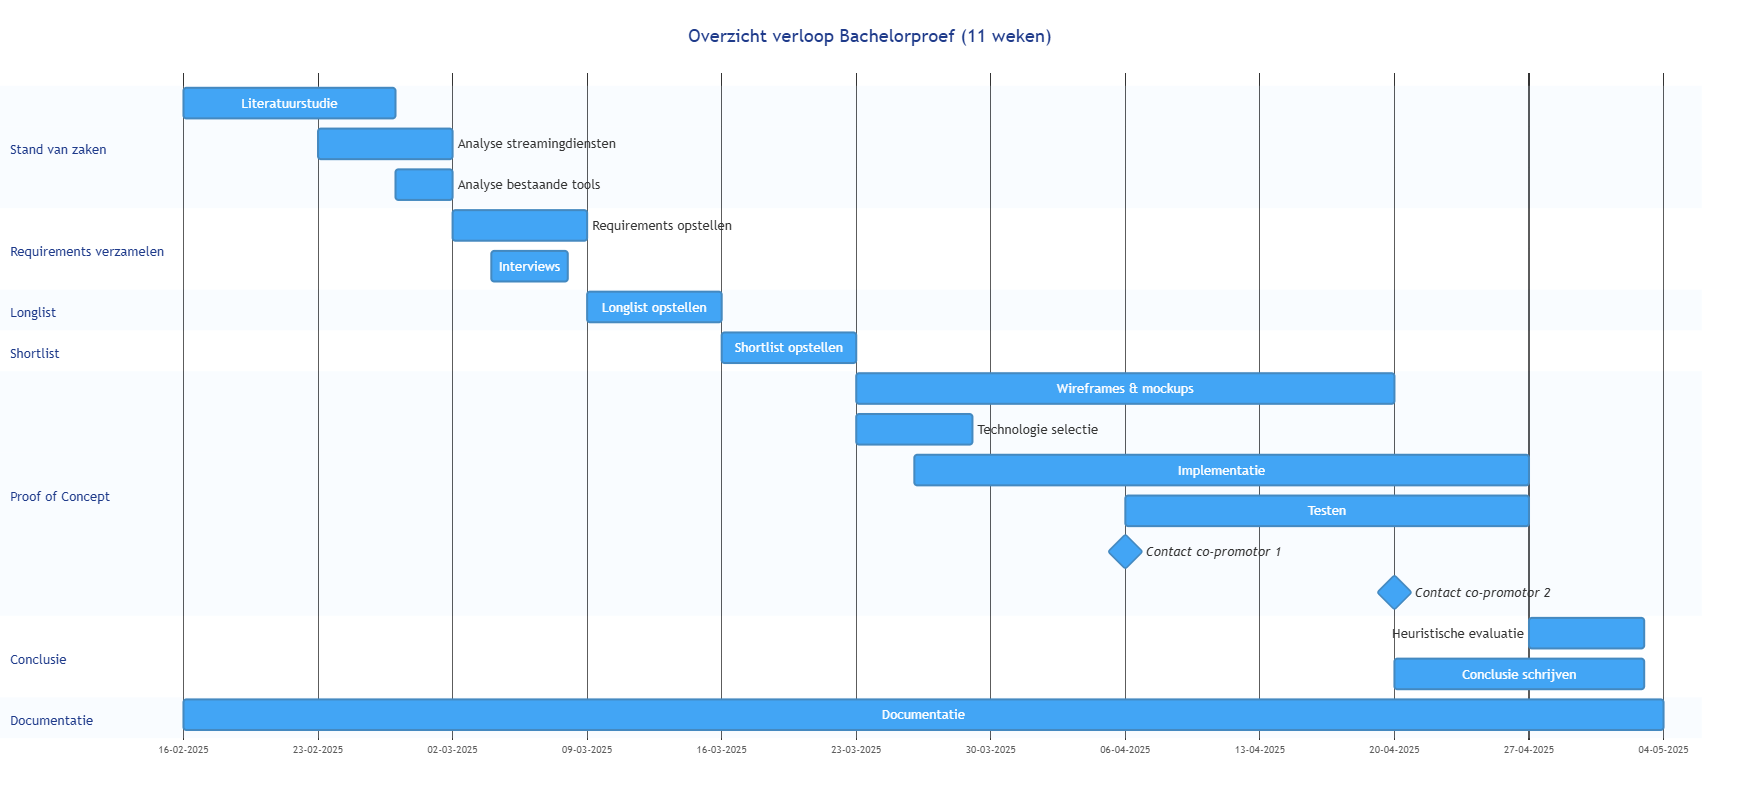
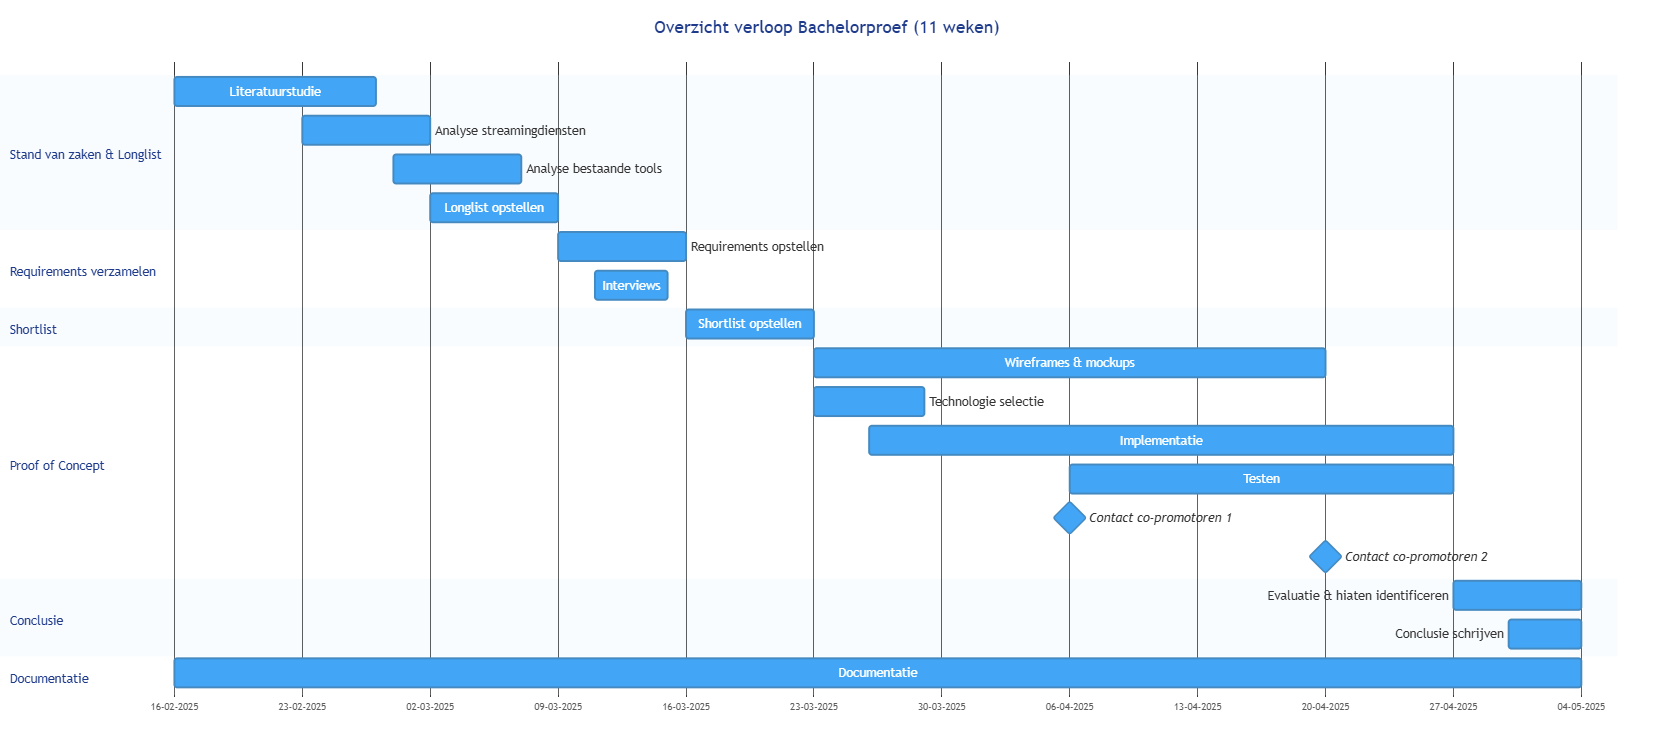
Toepassen feedback deel 2
TO DO: afwerken abstract, inleiding en literatuurstudie

diff --git a/voorstel/voorstel-inhoud.tex b/voorstel/voorstel-inhoud.tex
@@ -3,7 +3,7 @@
 \section{Inleiding}%
 \label{sec:inleiding}
 
-De voorbije jaren wordt er steeds meer gestreamd in België. Populaire streamingdiensten zoals \emph{Netflix}, \emph{Disney+} en \emph{Spotify} zijn haast niet meer weg te denken. Daarnaast springt ook de Vlaamse entertainmentindustrie volop op deze trend. Enkele populaire Vlaamse zenders en productiehuizen kwamen de voorbije jaren met hun eigen platformen. Denk maar aan \emph{Streamz}, \emph{VRT MAX} en \emph{VTM GO}. Door het stijgende aanbod aan streamingdiensten en doordat live televisie in populariteit daalt, sluiten steeds meer Belgen, waaronder Vlamingen, streamingabonnementen af.
+Er wordt steeds meer gestreamd in België \autocite{BNA2025}. Populaire streamingdiensten zoals \emph{Netflix}, \emph{Disney+} en \emph{Spotify} zijn haast niet meer weg te denken. Daarnaast springt ook de Vlaamse entertainmentindustrie volop op deze trend. Enkele populaire Vlaamse zenders en productiehuizen kwamen de voorbije jaren met hun eigen platformen. Denk maar aan \emph{Streamz}, \emph{VRT MAX} en \emph{VTM GO}. Door de groei van streamingdiensten en doordat live televisie in populariteit daalt \autocite{Digimeter2024}, maken steeds meer Belgen, waaronder Vlamingen, gebruik van al dan niet betalende streamingdiensten \autocite{BNA2025}.
 
 \vspace{1em}
 
@@ -34,7 +34,7 @@ Aanvullend werden enkele deelvragen geformuleerd die ondersteuning bieden bij he
 \noindent
 \textbf{Deelvragen probleemdomein:}
 \begin{enumerate}
-    \item Welke dark patterns komen het meest voor op websites en apps van streamingdiensten die door jongvolwassenen tussen 21 en 25 gebruikt worden?
+    \item Welke dark patterns komen het meest voor op websites en apps van streamingdiensten die door jongvolwassenen tussen 18 en 34 gebruikt worden?
     \item In welke mate zijn jongvolwassenen zich bewust van de aanwezigheid van dark patterns bij het gebruik van streamingdiensten?
     \item Welke verbanden bestaan er tussen de aanwezigheid van specifieke dark patterns en de businessdoelstellingen van streaming-\newline diensten?
     \item Op welk platform (website of mobiele app) komen dark patterns het vaakst voor?
@@ -48,6 +48,7 @@ Aanvullend werden enkele deelvragen geformuleerd die ondersteuning bieden bij he
     \item Welke bestaande tools die gebruikers waarschuwen voor dark patterns bestaan er al, en hoe effectief zijn deze in het verhogen van bewustzijn?
     \item Op welke manier kunnen jongvolwassenen het best ondersteund worden bij het herkennen van dark patterns zonder dat hun gebruikerservaring negatief beïnvloed wordt?
     \item Welke digitale of interactieve oplossing kan het meest bijdragen aan het verhogen van bewustzijn, en welke (niet-)functionele vereisten zijn hiervoor essentieel?
+    \item In welke mate voldoet de uitgewerkte digitale oplossing aan de opgestelde requirements en welke verbeterpunten kunnen worden geïdentificeerd?
 \end{enumerate}
 
 \vspace{1em}
@@ -127,22 +128,28 @@ In het algemeen werd er in het kader van dark patterns voornamelijk onderzocht w
 \section{Methodologie}%
 \label{sec:methodologie}
 
-Zoals in het begin van dit voorstel werd aangehaald, richt dit onderzoek zich op het zoeken naar een geschikte tool die jongvolwassen gebruikers in staat stelt om dark patterns op streamingdiensten te herkennen, en zo bewustwording rond dit onderwerp te creëren. Om de onderzoeksvraag te beantwoorden, wordt een weloverwogen plan gevolgd dat bestaat uit \textbf{zes verschillende fasen}. In eerste instantie wordt de huidige stand van zaken onderzocht aan de hand van een literatuurstudie. Nadien worden hieruit de requirements waaraan de tool moet voldoen opgesteld. Vervolgens zal een longlist gemaakt worden van alle mogelijke oplossingen. Deze zal verder vernauwd worden tot een shortlist die de meest geschikte tools bevat voor deze casus die eveneens rekening houdt met de doelgroep. Hieruit zal de meest geschikte aanpak gekozen en uitgewerkt worden als Proof of Concept. Tot slot zal uit dit onderzoek een conclusie geformuleerd worden. Naast deze gedefinieerde fasen wordt er tijdens het volledige verloop van het onderzoek continu documentatie bijgehouden. Iedere fase is zorgvuldig gepland om een optimaal verloop van de bachelorproef te garanderen. Een overzicht van het verloop van het onderzoek wordt weergegeven in Figuur~\ref{fig:gantt}. De onderzoeksperiode spreidt zich over \textbf{11 weken}, gevolgd door 3 weken waarin feedback kan worden verwerkt en de eindpresentatie kan worden voorbereid. Binnen de onderzoeksperiode zal er \textbf{wekelijks één tot twee dagen} gewerkt worden aan de bachelorproef: op de bachelorproefdag en, indien mogelijk, één dag in het weekend.
+Zoals in het begin van dit voorstel werd aangehaald, richt dit onderzoek zich op het zoeken naar een geschikte tool die jongvolwassen gebruikers in staat stelt om dark patterns op streamingdiensten te herkennen, en zo bewustwording rond dit onderwerp te creëren. Om de onderzoeksvraag te beantwoorden, wordt een weloverwogen plan gevolgd dat bestaat uit \textbf{vijf verschillende fasen}. In eerste instantie wordt de huidige stand van zaken onderzocht aan de hand van een literatuurstudie en zal een longlist gemaakt worden van alle mogelijke oplossingen. Nadien worden uit het literatuuronderzoek de requirements waaraan de tool moet voldoen opgesteld. Aan de hand van deze vereisten zal de longlist uit fase 1 verder vernauwd worden tot een shortlist die de meest geschikte tools bevat voor deze casus. Hieruit zal de meest beloftevolle aanpak gekozen en uitgewerkt worden als een Proof of Concept door een bestaande open‑source tool verder uit te werken en te verbeteren voor deze specifieke use case. Tot slot zal uit dit onderzoek een conclusie geformuleerd worden. Naast deze gedefinieerde fasen wordt er tijdens het volledige verloop van het onderzoek continu documentatie bijgehouden. Iedere fase is zorgvuldig gepland om een optimaal verloop van de bachelorproef te garanderen. Een overzicht van het verloop van het onderzoek wordt weergegeven in Figuur~\ref{fig:gantt}. De onderzoeksperiode spreidt zich over \textbf{11 weken}, gevolgd door 3 weken waarin feedback kan worden verwerkt en de eindpresentatie kan worden voorbereid. Binnen de onderzoeksperiode zal er \textbf{wekelijks één tot twee dagen} gewerkt worden aan de bachelorproef: op de bachelorproefdag en, indien mogelijk, één dag in het weekend.
 
 \vspace{1em}
 
-\subsection{Fase 1: Stand van zaken}
+\subsection{Fase 1: Stand van zaken \& Longlist}
 \label{subsec:stand-van-zaken}
 
 \begin{tabular}{ll}
-    \hspace{0.3em} \textbf{Periode:} & 16/02 – 01/03 (Week 1 - 2)
+    \hspace{0.3em} \textbf{Periode:} & 16/02 – 08/03 (Week 1 - 3)
 \end{tabular}
 
 \vspace{1em}
 
 Tijdens de eerste twee weken van het onderzoek wordt het onderzoeksdomein uitvoerig verkend om op die manier een goed theoretisch kader op te bouwen. Via literatuuronderzoek wordt onderzocht wat dark patterns zijn, welke er bestaan, welke negatieve gevolgen deze kunnen hebben en hoe bewust mensen zijn van de patronen en hun gevolgen. Verder wordt nagegaan waar deze patronen het vaakst voorkomen (websites en apps) en of er verschillen zijn per platform. Daarnaast wordt ook de huidige wet- en regelgeving en de mogelijk link tussen de businessdoelstellingen van streamingdiensten en het gebruik van dark patterns onder de loep genomen. Aanvullend aan dit literatuuronderzoek, wordt in kaart gebracht welke streamingdiensten het populairst zijn in België en welke dark patterns zij toepassen, onderverdeeld per platform. Tot slot worden bestaande tools geanalyseerd om hun sterktes en beperkingen te identificeren. Het literatuuronderzoek zal gedaan worden gebruikmakend van \emph{Google Scholar} en wetenschappelijke databanken zoals \emph{ACM digital library}, \emph{Springer Online Journals} en \emph{JSTOR}.
 
-Het doel van deze fase is het verder verwerven van kennis omtrent het probleemdomein, zodat in de volgende fase de requirements op een onderbouwde manier kunnen worden opgesteld. Dit resulteert zich in het uitwerken van een overzicht van gebruikersproblemen rond dark patterns op streamingdiensten, een lijst van populaire streamingdiensten en de patronen die ze bevatten, en een analyse van bestaande tools met hun sterke en zwakke punten.
+\vspace{1em}
+
+Op basis van dit literatuuronderzoek wordt een \textbf{longlist} opgesteld van mogelijke digitale oplossingen die gebruikers kunnen helpen om dark patterns op streamingdiensten te herkennen. Ieder alternatief wordt gedocumenteerd met zijn voor- en nadelen. Het doel is om een zo compleet mogelijk overzicht te creëren van mogelijke oplossingen, dat later gebruikt zal worden voor het opstellen van de shortlist.
+
+\vspace{1em}
+
+Het doel van deze fase is het verder verwerven van kennis omtrent het probleemdomein, zodat in de volgende fase de requirements op een onderbouwde manier kunnen worden opgesteld. Dit resulteert zich in het uitwerken van een overzicht van gebruikersproblemen rond dark patterns op streamingdiensten, een lijst van populaire streamingdiensten en de patronen die ze bevatten, en een analyse van bestaande tools met hun sterke en zwakke punten. Tot slot moet in deze fase een longlist opgesteld zijn van alle mogelijke digitale oplossingen die geschikt zouden kunnen zijn om in een verder stadium uit te werken.
 
 \vspace{1em}
 
@@ -150,31 +157,16 @@ Het doel van deze fase is het verder verwerven van kennis omtrent het probleemdo
 \label{subsec:requirements-verzamelen}
 
 \begin{tabular}{ll}
-    \hspace{0.3em} \textbf{Periode:} & 02/03 – 08/03 (Week 3)
-\end{tabular}
-
-\vspace{1em}
-
-In fase~2 ligt de focus op het verzamelen van alle vereisten waaraan de nieuwe tool moet voldoen. Op basis van de resultaten uit het literatuuronderzoek worden de requirements opgesteld. Er wordt onder andere rekening gehouden met welke dark patterns het belangrijkste zijn, waar de tool moet ingezet worden, welke aspecten overgenomen kunnen worden van andere tools en welke toevoegingen nodig zijn voor een betere digitale oplossing. Aanvullend worden de voorlopige requirements afgetoetst en aangevuld via interviews met experts, waaronder een UI/UX-designer en een front-end developer. Deze fase zal worden afgerond door het opstellen van een volledige en geprioriteerde lijst van criteria die het \emph{minimum viable product (MVP)} definiëren. Het concrete resultaat bestaat uit een lijst van functionele en niet-functionele requirements, geordend volgens hun belang. Voor de ordening zal de \emph{MoSCoW}-methode gebruikt worden.
-
-
-\vspace{1em}
-
-\subsection{Fase 3: Longlist}
-\label{subsec:longlist}
-
-\begin{tabular}{ll}
     \hspace{0.3em} \textbf{Periode:} & 09/03 – 15/03 (Week 4)
 \end{tabular}
 
 \vspace{1em}
 
-Na het opstellen van de requirements zal er gezocht worden naar een zo groot mogelijk aantal digitale oplossingen die gebruikers kunnen helpen om dark patterns op streamingdiensten te herkennen. Door middel van aanvullend literatuuronderzoek, gebruikmakend van de voorgaande vermelde databanken, worden alle mogelijke oplossingen overwogen en opgelijst. Ieder alternatief zal worden afgetoetst aan de requirementslijst die werd opgesteld in fase~2 als ook worden de voor- en nadelen genoteerd. Op deze manier wordt er zekerheid ingebouwd dat er geen alternatief over het hoofd gezien wordt. Op het einde van fase~3 moet een longlist opgesteld zijn van alle mogelijke digitale oplossingen die geschikt zouden kunnen zijn om in een verder stadium verder uit te werken. Deze longlist zal dienen voor het opstellen van de shortlist in de volgende fase.
-
+In fase~2 ligt de focus op het verzamelen van alle vereisten waaraan de nieuwe tool moet voldoen. Op basis van de resultaten uit het literatuuronderzoek worden de requirements opgesteld. Er wordt onder andere rekening gehouden met welke dark patterns het belangrijkste zijn, waar de tool moet ingezet worden, welke aspecten overgenomen kunnen worden van andere tools en welke toevoegingen nodig zijn voor een betere digitale oplossing. Aanvullend worden de voorlopige requirements afgetoetst en aangevuld via interviews met een UI/UX-designer en een front-end developer. Deze fase zal worden afgerond door het opstellen van een volledige en geprioriteerde lijst van criteria die het \emph{minimum viable product (MVP)} definiëren. Het concrete resultaat bestaat uit een lijst van functionele en niet-functionele requirements, geordend volgens hun belang. Voor de ordening zal de \emph{MoSCoW}-methode gebruikt worden.
 
 \vspace{1em}
 
-\subsection{Fase 4: Shortlist}
+\subsection{Fase 3: Shortlist}
 \label{subsec:shortlist}
 
 \begin{tabular}{ll}
@@ -187,7 +179,7 @@ Vooraleer een Proof of Concept uitgewerkt kan worden, wordt er gekeken welke opl
 
 \vspace{1em}
 
-\subsection{Fase 5: Proof of Concept}
+\subsection{Fase 4: Proof of Concept}
 \label{subsec:proof-of-concept}
 
 \begin{tabular}{ll}
@@ -196,15 +188,20 @@ Vooraleer een Proof of Concept uitgewerkt kan worden, wordt er gekeken welke opl
 
 \vspace{1em}
 
-Fase~5, de fase die het meeste tijd in beslag zal nemen, omvat de uitwerking van een Proof of Concept (PoC). De geselecteerde oplossing uit fase~4 wordt in deze fase uitgewerkt tot een eerste Minimum Viable Product (MVP). In eerste instantie zullen er wireframes en mockups uitgewerkt worden in \emph{AdobeXD} om de algemene flow van de tool te bepalen. Nadien zullen in overleg met de co-promotor de meest geschikte technologieën (zoals \emph{React}, \emph{Node.js}, \emph{Python}, \ldots) gekozen worden. Daarna start de implementatie van de tool. Tijdens de ontwikkeling wordt er iteratief en agile gewerkt, waarbij elke iteratie het resultaat zal worden afgetoetst bij de co-promotor. Daarnaast zullen er testen geschreven worden die de goede werking van de tool controleren.
+Fase~4, de fase die het meeste tijd in beslag zal nemen, omvat de uitwerking van een Proof of Concept (PoC). De geselecteerde oplossing uit fase~4 wordt in deze fase uitgewerkt tot een eerste Minimum Viable Product (MVP). Aangezien er reeds bestaande open-source tools beschikbaar zijn, zal één van deze tools verder aangepast en uitgebreid worden voor de specifieke use case van dit onderzoek. 
 
 \vspace{1em}
 
-Op het einde van de fase is er een werkend prototype die de belangrijkste functionaliteiten van de tool bevat, aangevuld met een korte documentatie over de werking en functionaliteiten. Eveneens zal gevalideerd worden of de uitgewerkte tool al dan niet een oplossing biedt voor het gestelde probleem. Dit zal gedaan worden aan de hand van een digitale test bij enkele testgebruikers die tot de doelgroep behoren. Zij zullen een aantal taken uitvoeren op een streamingplatform die gebruikmaakt van dark patterns, zowel zonder als met de tool. Uit deze test wordt afgeleid in welke mate de proefpersonen de patronen herkennen, hoe snel zij de taken kunnen voltooien en hoeveel gebruikersacties er nodig zijn om de taken af te ronden. De resultaten hiervan zullen bepalen of de PoC een meerwaarde biedt.
+In eerste instantie zullen er wireframes en mockups uitgewerkt worden in \emph{AdobeXD} om de algemene flow van de tool te bepalen. Nadien zullen in overleg met de co-promotoren de meest geschikte technologieën (zoals \emph{React}, \emph{Node.js}, \emph{Python}, \ldots) gekozen worden. Daarna start de implementatie van de tool. Tijdens de ontwikkeling wordt er iteratief en agile gewerkt, waarbij het resultaat van elke iteratie zal worden afgetoetst bij de co-promotoren. Daarnaast zullen er testen geschreven worden die de goede werking van de tool waarborgen.
 
 \vspace{1em}
 
-\subsection{Fase 6: Conclusie}
+Op het einde van de fase is er een werkend prototype die de belangrijkste functionaliteiten van de tool bevat, aangevuld met een korte documentatie over de werking en functionaliteiten. Eveneens zal gevalideerd worden of de uitgewerkte tool al dan niet een oplossing biedt voor het gestelde probleem.
+Dit zal gedaan worden aan de hand van een digitale test bij enkele testgebruikers die tot de doelgroep behoren. Zij zullen een aantal taken uitvoeren op een streamingplatform dat gebruikmaakt van dark patterns, zowel zonder als met de tool. Uit deze test wordt een eerste indicatie afgeleid van in welke mate de proefpersonen de patronen herkennen en hoe snel zij deze waarnemen. De resultaten hiervan geven een eerste indicatie in de mogelijke meerwaarde van de PoC, zonder ervan uit te gaan dat dit geldt voor de hele doelgroep.
+
+\vspace{1em}
+
+\subsection{Fase 5: Conclusie}
 \label{subsec:conclusie}
 
 \begin{tabular}{ll}
@@ -213,18 +210,19 @@ Op het einde van de fase is er een werkend prototype die de belangrijkste functi
 
 \vspace{1em}
 
-De laatste fase omvat het trekken van een conclusie over de werking van de uitgewerkte tool. Eveneens zal een antwoord geformuleerd worden op de onderzoeksvraag en zullen aanbevelingen opgesteld worden voor verder onderzoek. Tot slot worden de overblijvende hiaten in de tool geïdentificeerd. Hiervoor wordt een heuristische evaluatie uitgevoerd op basis van de requirements uit fase~2 en de UX-principes van Nielsen. De evaluatie wordt zowel door de onderzoeker als door de co-promotor uitgevoerd om objectiviteit te waarborgen. De bevindingen uit deze evaluatie worden gedocumenteerd en samengevat.
+De laatste fase omvat het trekken van een conclusie over de werking van de uitgewerkte tool en het identificeren van verbeterpunten en overblijvende hiaten. Dit gebeurt door de gerealiseerde functionaliteiten te vergelijken met de vereisten die in fase~2 werden opgesteld. Daarnaast worden observaties uit de gebruikerstesten meegenomen om hiaten te identificeren en mogelijke verbeterpunten te formuleren.
 
 \vspace{1em}
+
 
 %---------- Verwachte resultaten ----------------------------------------------
 \section{Verwacht resultaat}%
 \label{sec:verwachte_resultaten}
 
-Het verwachte resultaat van dit onderzoek is een digitale tool die Vlamingen tussen 21 en 25 jaar helpt bij het opmerken van dark patterns op streamingdiensten zodat ze veiliger en bewuster met deze platformen omgaan. De tool zal hen ondersteunen bij het herkennen van misleidende technieken en zal de gebruikers informeren over de intentie en gevaren ervan. Deze verwachting baseert zich op bevindingen uit de literatuurstudie, namelijk dat gebruikers regelmatig moeite hebben bij het herkennen van dark patterns \autocite{OECD2022} en dat ze niet bewust zijn van de gevaren ervan \autocite{BongardBlanchy2021}. Daarnaast wordt verwacht dat de tool geen AI zal gebruiken aangezien uit de literatuurstudie gebleken is dat bestaande detectietools gebruikmakend van AI een beperkte dekking hebben \autocite{Nie2024} en dus onmogelijk alle patronen kunnen herkennen en ervoor waarschuwen. Eveneens wordt, naast de uitgewerkte tool, aangenomen dat het onderzoek inzichten zal geven in op welke manier gebruikers het best geïnformeerd en gewaarschuwd kunnen worden. 
+Het verwachte resultaat van dit onderzoek is een digitale tool die Vlamingen tussen 18 en 34 jaar helpt bij het opmerken van dark patterns op streamingdiensten zodat ze deze sneller herkennen. De tool zal hen ondersteunen bij het opmerken van misleidende technieken en zal de gebruikers informeren over de intentie en gevaren ervan. Deze verwachting baseert zich op bevindingen uit de literatuurstudie, namelijk dat gebruikers regelmatig moeite hebben bij het herkennen van dark patterns \autocite{OECD2022} en dat ze niet bewust zijn van de gevaren ervan \autocite{BongardBlanchy2021}. Daarnaast wordt verwacht dat de tool geen AI zal gebruiken aangezien uit de literatuurstudie gebleken is dat bestaande detectietools gebruikmakend van AI een beperkte dekking hebben \autocite{Nie2024} en dus onmogelijk alle patronen kunnen herkennen en ervoor waarschuwen. Eveneens wordt, naast de uitgewerkte tool, aangenomen dat het onderzoek inzichten zal geven in op welke manier gebruikers het best geïnformeerd en gewaarschuwd kunnen worden. 
 
 \vspace{1em}
 
-De verwachte meerwaarde van dit onderzoek voor de doelgroep ligt in het verhogen van hun bewustzijn over dark patterns en het vergroten van hun gevoel van controle bij het gebruik van streamingplatformen. De tool helpt bij het maken van bewustere keuzes doordat gebruikers beter begrijpen hoe interfaces hen beïnvloeden. Verder biedt dit onderzoek waardevolle inzichten voor de wereld van UI/UX en softwareontwikkeling, doordat het kan dienen als voorbeeld voor het ontwerpen van soortgelijke tools in andere domeinen waar dark patterns voorkomen, zoals webshops of reiswebsites.
+De verwachte meerwaarde van dit onderzoek voor de doelgroep ligt in het verhogen van hun bewustzijn over dark patterns en het vergroten van hun gevoel van controle bij het gebruik van streamingplatformen. De tool ondersteunt gebruikers bij het maken van bewustere keuzes door hen te laten zien hoe interfaces hen kunnen beïnvloeden. Verder biedt dit onderzoek waardevolle inzichten voor de wereld van UI/UX en softwareontwikkeling, doordat het kan dienen als voorbeeld voor het ontwerpen van soortgelijke tools in andere domeinen waar dark patterns voorkomen, zoals webshops of reiswebsites.
 
 \vspace{1em}

diff --git a/voorstel/EmanuelAlex-BPvoorstel.tex b/voorstel/EmanuelAlex-BPvoorstel.tex
@@ -26,8 +26,7 @@
 \email{alex.emanuel@student.hogent.be}
 
 % TODO: Geef de co-promotor op
-\supervisor[Co-promotor]{G. De Bruyn (KBC Bank & Verzekeringen, \href{mailto:jane.doe@bedrijf.be}{jane.doe@bedrijf.be})}
-\supervisor[Co-promotor]{- (\emph{zoektocht lopende})}
+\supervisor[Co-promotor]{G. De Bruyn (KBC, \href{mailto:De.bruyn.guus@gmail.com}{De.bruyn.guus@gmail.com}), S. Hostyn (Intigriti, \href{mailto:Simonhostyn@gmail.com}{Simonhostyn@gmail.com})}
 
 \specialisation{Mobile \& Enterprise development}
 \keywords{Dark patterns, Deceptive patterns, Manipulative patterns, Streamingdiensten, Abonnementsservices, Bewustwording, UI/UX design}
@@ -35,7 +34,7 @@
 \begin{document}
 
 \begin{abstract}
-  Nu streamingdiensten niet meer weg te denken zijn uit het leven van Vlaamse jongvolwassenen, worden 18- tot 34-jarigen meer dan ooit blootgesteld aan zogenaamde dark patterns. Deze misleidende technieken beïnvloeden hun keuzes zonder dat zij zich hiervan bewustzijn. Deze bachelorproef onderzoekt hoe zo’n patronen het gedrag van Vlaamse jongvolwassenen beïnvloeden en op welke manier een tool kan helpen om deze technieken sneller te herkennen en hun bewustzijn te verhogen. Er wordt specifiek vertrokken vanuit de centrale onderzoeksvraag ``Op welke manier kan het bewustzijn van op de achtergrond beïnvloedende dark patterns op streamingdiensten verhoogd worden bij jongvolwassen Vlamingen tussen 18 en 34 jaar?’’. Dit onderzoek heeft als doel te bepalen welke tool het meest geschikt is en deze uit te werken in de vorm van een Proof of Concept. Dit wordt onderzocht door het doorlopen van zes fasen: uitvoeren van een literatuurstudie, verzamelen van requirements, uitwerken van een longlist en shortlist van mogelijke oplossingen, ontwikkelen en testen van een Proof of Concept, en afsluiten met een conclusie. Er wordt verwacht dat een doordacht uitgewerkte digitale tool een meerwaarde kan bieden bij het sneller herkennen van dark patterns. Deze meerwaarde wordt gemeten aan de hand van herkenningstesten waarbij een beperkte groep gebruikers dark patterns aanduiden, zowel zonder als met gebruik van de tool. Hierbij wordt gekeken naar het aantal correct opgemerkte dark patterns en de herkenningstijd die hiervoor nodig is. De resultaten bieden een eerste indicatie van effectiviteit, maar zijn niet representatief voor de gehele doelgroep.
+  Nu streamingdiensten niet meer weg te denken zijn uit het leven van Vlaamse jongvolwassenen, worden 18- tot 34-jarigen meer dan ooit blootgesteld aan zogenaamde dark patterns. Deze misleidende technieken beïnvloeden hun keuzes zonder dat zij zich hiervan bewustzijn. Deze bachelorproef onderzoekt hoe zo’n patronen het gedrag van Vlaamse jongvolwassenen beïnvloeden en op welke manier een tool kan helpen om deze technieken sneller te herkennen en hun bewustzijn te verhogen. Er wordt specifiek vertrokken vanuit de centrale onderzoeksvraag ``Op welke manier kan het bewustzijn van op de achtergrond beïnvloedende dark patterns op streamingdiensten verhoogd worden bij jongvolwassen Vlamingen tussen 18 en 34 jaar?’’. Dit onderzoek heeft als doel te bepalen welke tool het meest geschikt is en deze uit te werken in de vorm van een Proof of Concept. Dit wordt onderzocht door het doorlopen van vijf fasen: uitvoeren van een literatuurstudie en opstellen van een longlist van mogelijke oplossingen, verzamelen van requirements, de longlist verder vernauwen naar een shortlist, ontwikkelen en testen van een Proof of Concept, en afsluiten met een conclusie. Er wordt verwacht dat een doordacht uitgewerkte digitale tool een meerwaarde kan bieden bij het sneller herkennen van dark patterns. Deze meerwaarde wordt gemeten aan de hand van herkenningstesten waarbij een beperkte groep gebruikers dark patterns aanduiden, zowel zonder als met gebruik van de tool. Hierbij wordt gekeken naar het aantal correct opgemerkte dark patterns en de herkenningstijd die hiervoor nodig is. De resultaten bieden een eerste indicatie van effectiviteit, maar zijn nog niet representatief voor de gehele doelgroep.
 \end{abstract}
 
 \tableofcontents
